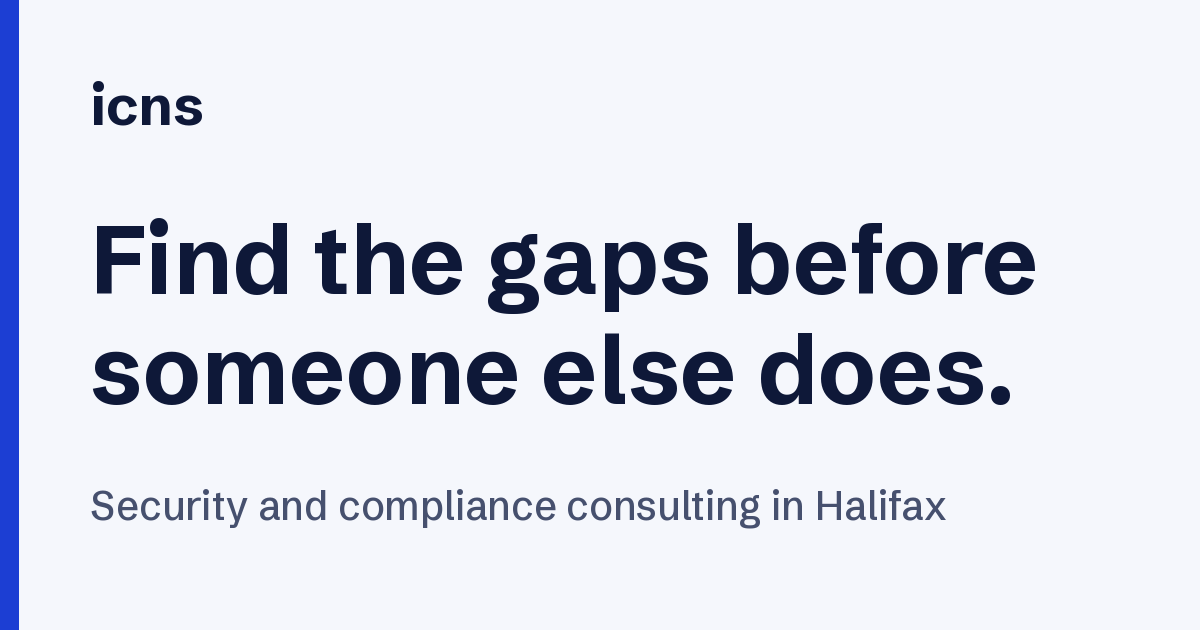
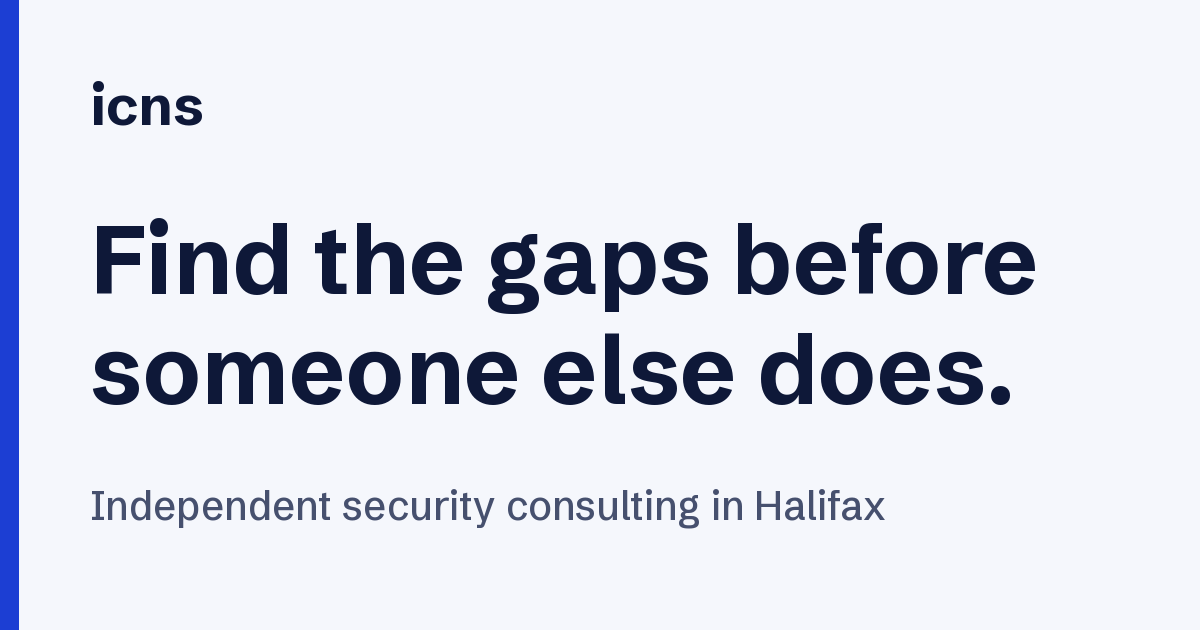
Drop GRC focus and the sample finding
Services are now security testing and fintech/Bitcoin security.
Hero is text only. Compliance wording removed from copy, metadata,
manifest and preview image.

Claude-Session: https://claude.ai/code/session_01Mzgw32wQMDg8kMvJGVB3yZ

Changed region(s): [[0.0617, 0.754, 0.8017, 0.8444]]

diff --git a/index.html b/index.html
@@ -3,19 +3,19 @@
 <head>
   <meta charset="utf-8">
   <meta name="viewport" content="width=device-width, initial-scale=1">
-  <title>icns: security and compliance consulting in Halifax</title>
-  <meta name="description" content="Independent security testing and compliance consulting for small teams, fintechs and Bitcoin businesses. Based in Halifax, Nova Scotia.">
+  <title>icns: independent security consulting in Halifax</title>
+  <meta name="description" content="Independent security testing for small teams, fintechs and Bitcoin businesses. Based in Halifax, Nova Scotia.">
   <link rel="canonical" href="https://icns.ca/">
 
   <meta property="og:type" content="website">
   <meta property="og:url" content="https://icns.ca/">
   <meta property="og:site_name" content="icns">
-  <meta property="og:title" content="icns: security and compliance consulting">
-  <meta property="og:description" content="Independent security testing and compliance consulting for small teams. Based in Halifax, Nova Scotia.">
+  <meta property="og:title" content="icns: independent security consulting">
+  <meta property="og:description" content="Independent security testing for small teams, fintechs and Bitcoin businesses. Based in Halifax, Nova Scotia.">
   <meta property="og:image" content="https://icns.ca/images/og.png">
   <meta property="og:image:width" content="1200">
   <meta property="og:image:height" content="630">
-  <meta property="og:image:alt" content="icns: security and compliance consulting, Halifax">
+  <meta property="og:image:alt" content="icns: independent security consulting, Halifax">
   <meta name="twitter:card" content="summary_large_image">
 
   <link rel="icon" href="/favicon.svg" type="image/svg+xml">
@@ -35,7 +35,7 @@
     "name": "icns",
     "url": "https://icns.ca/",
     "email": "hello@icns.ca",
-    "description": "Independent security testing and compliance consulting.",
+    "description": "Independent security testing and consulting.",
     "areaServed": "CA",
     "address": {
       "@type": "PostalAddress",
@@ -70,29 +70,12 @@
       <div class="wrap">
         <div>
           <h1 id="hero-title">Find the gaps before someone else does.</h1>
-          <p class="lede">Independent security testing and compliance help for small teams, fintechs and Bitcoin businesses. You get clear findings, a plan to fix them, and someone to call when you have questions.</p>
+          <p class="lede">Independent security testing for small teams, fintechs and Bitcoin businesses. You get clear results, a plan to fix each issue, and someone to call when you have questions.</p>
           <div class="actions">
             <a class="button" href="mailto:hello@icns.ca?subject=Free%20consultation">Book a free consultation</a>
             <span class="where">Halifax, Nova Scotia. Working remotely across Canada.</span>
           </div>
         </div>
-
-        <figure class="finding" aria-label="Example of a report finding">
-          <figcaption class="finding-caption">What a finding looks like in your report</figcaption>
-          <div class="finding-head">
-            <span class="severity">High</span>
-            <h2>Admin portal accepts password-only logins</h2>
-          </div>
-          <dl>
-            <dt>What we saw</dt>
-            <dd>The staff admin page signs users in without a second factor.
-              <code>POST /admin/login → 302 /admin/dashboard</code></dd>
-            <dt>Why it matters</dt>
-            <dd>One reused or phished password gives full access to customer records.</dd>
-            <dt>Fix</dt>
-            <dd>Require MFA for every admin account, then retest.</dd>
-          </dl>
-        </figure>
       </div>
     </section>
 
@@ -106,10 +89,6 @@
           <li>
             <h3>Security testing</h3>
             <p>Your web applications and internet-facing systems, tested the way an attacker would approach them. You get findings ranked by real-world risk, with steps to reproduce and fix each one.</p>
-          </li>
-          <li>
-            <h3>Governance, risk and compliance</h3>
-            <p>Policies that match how your team actually works, a risk register you will keep using, and help preparing for frameworks such as SOC&nbsp;2, ISO&nbsp;27001 and PCI&nbsp;DSS.</p>
           </li>
           <li>
             <h3>Fintech and Bitcoin security</h3>
@@ -128,7 +107,7 @@
         <ol class="steps">
           <li>
             <h3>Free consultation</h3>
-            <p>A short call about what you run, what worries you and what you need to prove to customers or auditors.</p>
+            <p>A short call about what you run, what worries you and what you need to show customers and partners.</p>
           </li>
           <li>
             <h3>Scope and quote</h3>

diff --git a/css/site.css b/css/site.css
@@ -30,9 +30,6 @@
   --rule: #d5dbea;
   --blue: #1c3ed3;
   --blue-ink: #ffffff;
-  --high: #a8321e;
-  --high-bg: #fbe9e5;
-  --code-bg: #eef1f8;
 
   --font: "Schibsted Grotesk", system-ui, -apple-system, "Segoe UI", sans-serif;
   --mono: ui-monospace, "SF Mono", Menlo, Consolas, monospace;
@@ -52,9 +49,6 @@
     --rule: #26315a;
     --blue: #8da2ff;
     --blue-ink: #0b1330;
-    --high: #ff9a85;
-    --high-bg: #3a1d1d;
-    --code-bg: #0b1330;
   }
 }
 
@@ -142,10 +136,7 @@ a:hover { text-decoration-thickness: 2px; }
 
 .hero .wrap {
   display: grid;
-  grid-template-columns: minmax(0, 1.15fr) minmax(0, 1fr);
-  gap: clamp(2.5rem, 6vw, 5rem);
-  align-items: center;
-  padding-block: clamp(3rem, 8vw, 6rem) var(--section);
+    padding-block: clamp(3rem, 8vw, 6rem) var(--section);
 }
 
 .hero h1 {
@@ -153,7 +144,7 @@ a:hover { text-decoration-thickness: 2px; }
   line-height: 1;
   letter-spacing: -0.035em;
   font-weight: 700;
-  max-width: 11ch;
+  max-width: 11em;
 }
 
 .hero .lede {
@@ -185,72 +176,6 @@ a:hover { text-decoration-thickness: 2px; }
 
 .hero .where { color: var(--ink-soft); }
 
-/* Sample finding: the one designed object on the page */
-
-.finding {
-  margin: 0;
-  min-width: 0;
-  background: var(--surface);
-  border: 1px solid var(--rule);
-  border-left: 6px solid var(--high);
-  border-radius: 3px;
-  padding: clamp(1.25rem, 3vw, 2rem);
-  font-size: 0.97rem;
-}
-
-.finding-caption {
-  color: var(--ink-soft);
-  font-size: 0.875rem;
-  margin-bottom: 1rem;
-}
-
-.finding-head {
-  display: flex;
-  flex-wrap: wrap;
-  align-items: baseline;
-  gap: 0.5rem 0.75rem;
-  padding-bottom: 1rem;
-  border-bottom: 1px solid var(--rule);
-}
-
-.severity {
-  background: var(--high-bg);
-  color: var(--high);
-  font-weight: 700;
-  font-size: 0.8125rem;
-  padding: 0.15rem 0.55rem;
-  border-radius: 2px;
-}
-
-.finding h2 {
-  font-size: 1.125rem;
-  line-height: 1.3;
-  font-weight: 700;
-  letter-spacing: -0.01em;
-}
-
-.finding dl {
-  display: grid;
-  grid-template-columns: 7.5rem minmax(0, 1fr);
-  gap: 0.9rem 1rem;
-  margin-top: 1rem;
-}
-.finding dt { font-weight: 500; }
-.finding dd { color: var(--ink-soft); min-width: 0; }
-
-.finding code {
-  display: block;
-  margin-top: 0.4rem;
-  padding: 0.5rem 0.65rem;
-  background: var(--code-bg);
-  color: var(--ink);
-  font-family: var(--mono);
-  font-size: 0.8125rem;
-  border-radius: 2px;
-  white-space: pre-wrap;
-  overflow-wrap: anywhere;
-}
-
 /* Sections */
 
 .section { padding-block: var(--section); border-top: 1px solid var(--rule); }
@@ -281,7 +206,8 @@ a:hover { text-decoration-thickness: 2px; }
   padding: 0;
   margin-top: clamp(2.5rem, 5vw, 4rem);
   display: grid;
-  grid-template-columns: repeat(3, minmax(0, 1fr));
+  grid-template-columns: repeat(2, minmax(0, 1fr));
+  max-width: 52rem;
   gap: 2.5rem clamp(1.5rem, 4vw, 3rem);
 }
 .services li { border-top: 3px solid var(--blue); padding-top: 1.25rem; }
@@ -355,8 +281,6 @@ a:hover { text-decoration-thickness: 2px; }
 /* Responsive */
 
 @media (max-width: 60rem) {
-  .hero .wrap { grid-template-columns: 1fr; }
-  .hero h1 { max-width: 13ch; }
   .services { grid-template-columns: 1fr; max-width: var(--measure); }
   .steps { grid-template-columns: repeat(2, minmax(0, 1fr)); }
   .section-head { grid-template-columns: 1fr; }
@@ -365,8 +289,6 @@ a:hover { text-decoration-thickness: 2px; }
 @media (max-width: 34rem) {
   .site-nav { display: none; }
   .steps { grid-template-columns: 1fr; }
-  .finding dl { grid-template-columns: 1fr; gap: 0.25rem; }
-  .finding dd + dt { margin-top: 0.75rem; }
 }
 
 .contact-intro { margin-bottom: 2rem; }

diff --git a/AGENTS.md b/AGENTS.md
@@ -1,6 +1,6 @@
 # Guidance for coding agents
 
-Static site for icns (https://icns.ca), an independent security and compliance consultancy in Halifax, Nova Scotia. Hosted on GitHub Pages; `CNAME` sets the custom domain.
+Static site for icns (https://icns.ca), an independent security consultancy in Halifax, Nova Scotia. Hosted on GitHub Pages; `CNAME` sets the custom domain.
 
 ## Rules
 
